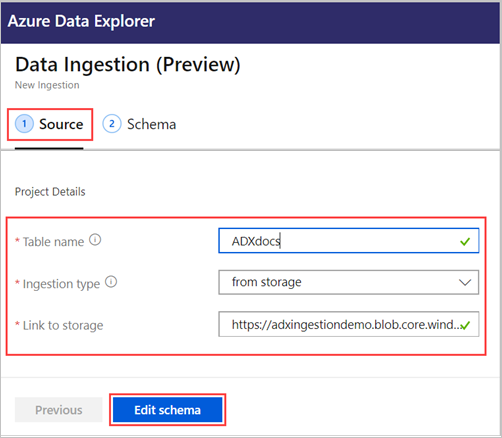
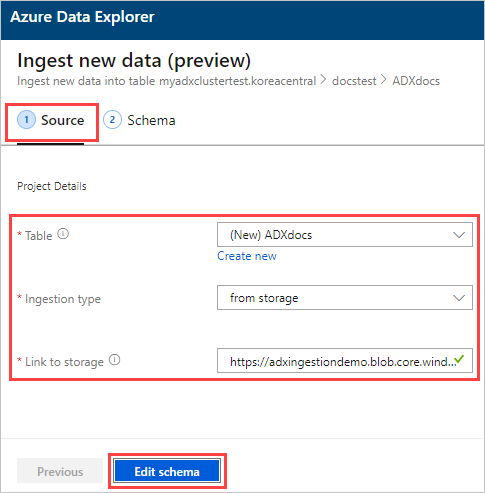
Updates in one-click ingestion

Changed region(s): [[0.0, 0.0, 1.0, 1.0]]

diff --git a/data-explorer/ingest-data-one-click.md b/data-explorer/ingest-data-one-click.md
@@ -22,39 +22,46 @@ This article shows how to use one-click ingestion for quick ingestion of a new t
 
 ## Ingest new data
 
-1. Right-click on the *Database name* and select **Ingest new data (Preview)**
+1. Right-click on the *Database* or *table* row in left hand menu and select **Ingest new data (Preview)**
 
     ![select one click ingestion in web UI](media/ingest-data-one-click/one-click-ingestion-in-webui.png)   
  
 1. In the **Data Ingestion (Preview)** window, in **Source** tab, complete the **Project Details**:
 
-    * Enter new **Table name**. 
+    * **Table**: Select existing table name from drop-down or select **Create new** to make a new table.
 	* Select **Ingestion type** > **from storage**.
-	* Enter **Link to storage** Add url to storage. Use Blob SAS URL for private storage accounts. 
+	* Enter **Link to storage** Add url to storage. Use [Blob SAS URL](https://docs.microsoft.com/en-us/azure/vs-azure-tools-storage-explorer-blobs#get-the-sas-for-a-blob-container) for private storage accounts. 
     * Select **Edit schema**
  
     ![one click ingestion source details](media/ingest-data-one-click/one-click-ingestion-source.png) 
 
-1. In **Schema** tab, select **Data format** from drop-down > **JSON** or **CSV**. 
-   
-   If select **CSV**:
-    * Select checkbox **Ignore headline** to ignore heading row of csv file.    
+    > [!NOTE]
+    > If you select **Ingest new data (Preview)** on a *table* row, the selected table name will appear in the **Project Details**.
+
+1. If you selected an existing table, the **Map columns** window opens to map source data columns to target table columns. Use **Omit column** to remove a target column from the table. Use **New column** to add a new column to your table. 
+
+    ![Map columns window](media/ingest-data-one-click/one-click-map-columns-window.png)
+
+1. In **Schema** tab:
+
+    * Select **Compression type** from drop-down > **Uncompressed** or **GZip**.
+    * Select **Data format** from drop-down > **JSON**, **CSV**, **TSV**, **SCSV**, **SOHSV**, **TSVE**, or **PSV**. 
+    * If select format (other than JSON): select checkbox **Include column names** to ignore heading row of file.    
     * **Mapping name** is set automatically but can be edited.
+    * If you selected an existing table, you can select **Map columns** button to open the **Map columns** window.
 
     ![one click ingestion csv format schema.png](media/ingest-data-one-click/one-click-csv-format.png)
 
    If select **JSON**:
-    * Select **JSON levels**: 1-10 from drop-down. The levels in the json file are shown in the table on the bottom right. 
-    * **Mapping name** is set automatically but can be edited.
+    * Select **JSON levels**: 1-10. The levels in the json file are shown in the table. 
 
     ![one click ingestion json format schema](media/ingest-data-one-click/one-click-json-format.png)  
 
-1. In **Editor**, select **V** on right to open the editor. In the editor, you can view and copy the automatic queries generated from your inputs. 
+1. In **Editor**, select **V** on the right to open the editor. In the editor, you can view and copy the automatic queries generated from your inputs. 
 
 1.	In table on the bottom right: 
-    * Select **V** on right of column to **Rename column**, **Delete column**, **Sort ascending**, or **Sort descending**
-    * Double-click on column name to edit.
-    * Select the icon to the left of the column name to change the data type. 
+    * Select **V** on right of new columns to **Change data type**, **Rename column**, **Delete column**, **Sort ascending**, or **Sort descending**. Existing columns are limited to sorting changes.
+    * Double-click on the new column name to edit.
 
 1. Select **Start ingestion** to create table, create mapping, and data ingestion.
  
